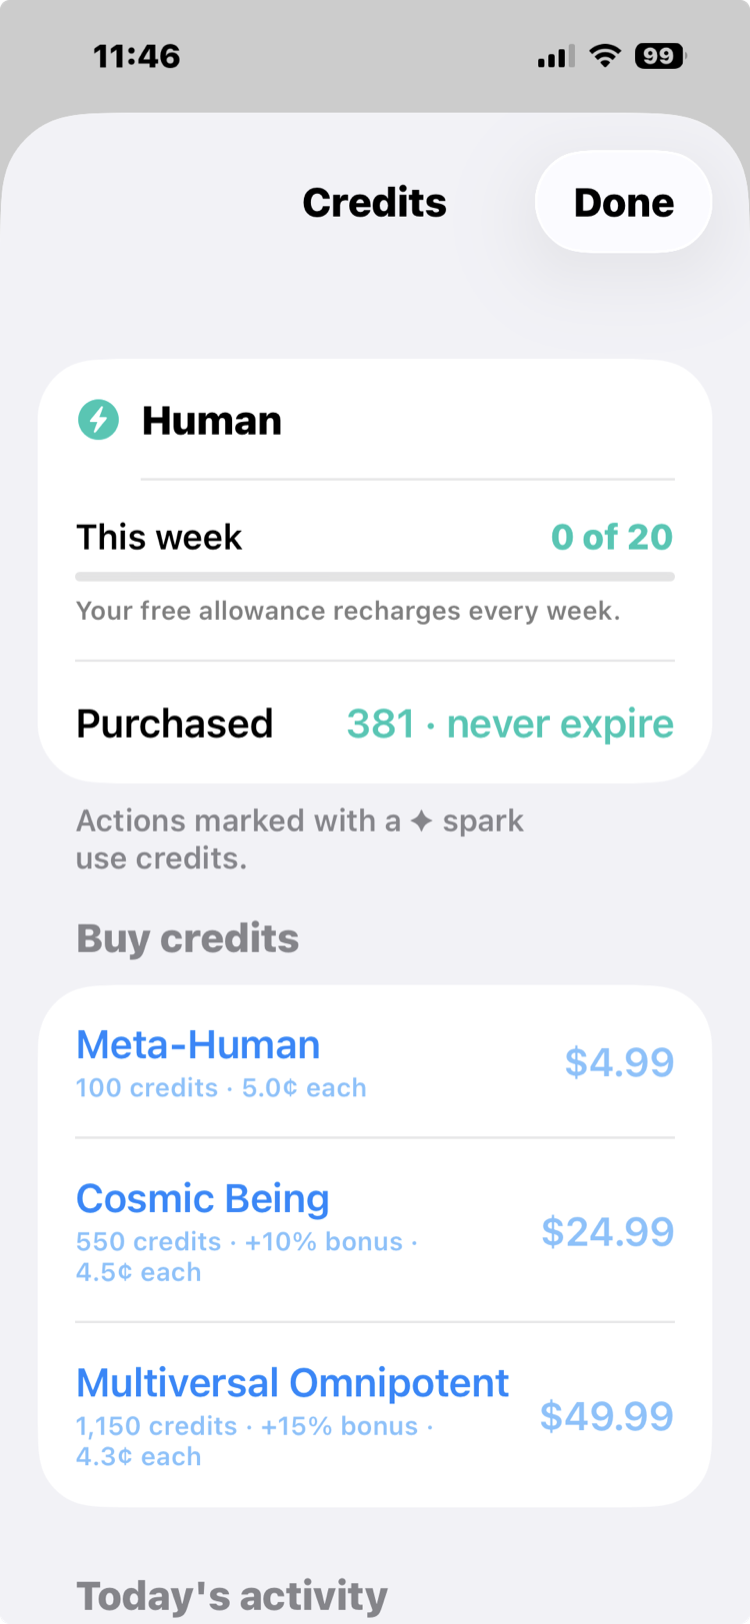
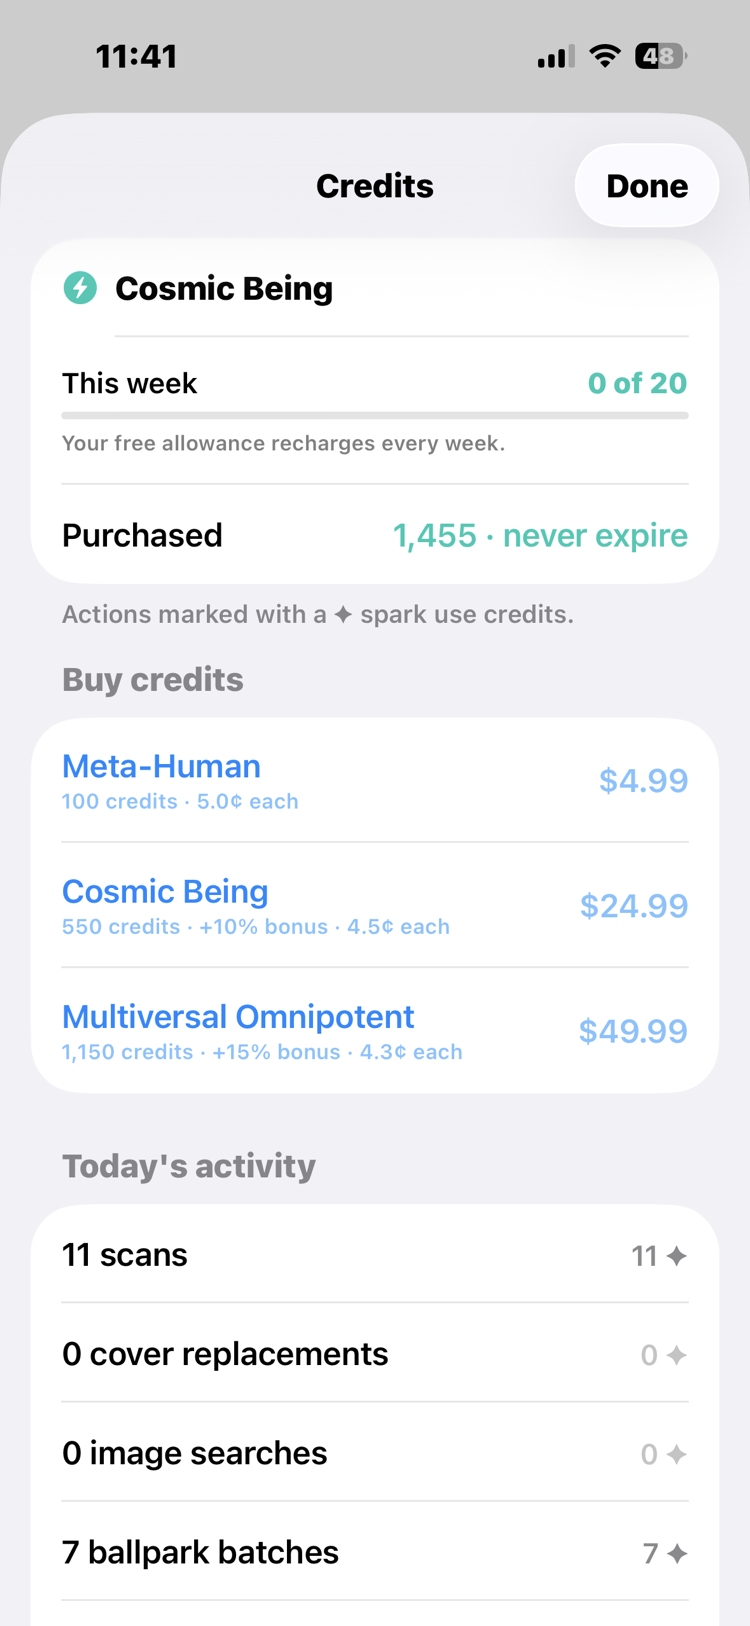
The Credits screen shows a day's work, and the rank it earned

diff --git a/faq.html b/faq.html
@@ -264,8 +264,8 @@
     whole-device zip is.</p>
     <h2>What do credits cost?</h2>
     <figure class="phone">
-      <img src="images/credits-screen.png" width="750" height="1624" loading="lazy"
-           alt="The Credits screen: a weekly free allowance shown as 0 of 20 that recharges every week, 381 purchased credits that never expire, and three credit packs from $4.99 to $49.99 with per-credit prices and bulk bonuses." />
+      <img src="images/credits-screen.png" width="750" height="1626" loading="lazy"
+           alt="The Credits screen: the Cosmic Being rank, a weekly free allowance shown as 0 of 20 that recharges every week, 1,455 purchased credits that never expire, three credit packs from $4.99 to $49.99 with per-credit prices and bulk bonuses, and today's activity of 11 scans and 7 ballpark batches." />
       <figcaption>One battery tap: your allowance, your purchased credits, the packs,
         and where every credit went.</figcaption>
     </figure>

diff --git a/howto/credits.html b/howto/credits.html
@@ -220,8 +220,8 @@
     </ul>
 
     <figure class="phone">
-      <img src="../images/credits-screen.png" width="750" height="1624" loading="lazy"
-           alt="The Credits screen: a weekly free allowance shown as 0 of 20 that recharges every week, 381 purchased credits that never expire, and three credit packs from $4.99 to $49.99 with per-credit prices and bulk bonuses." />
+      <img src="../images/credits-screen.png" width="750" height="1626" loading="lazy"
+           alt="The Credits screen: the Cosmic Being rank, a weekly free allowance shown as 0 of 20 that recharges every week, 1,455 purchased credits that never expire, three credit packs from $4.99 to $49.99 with per-credit prices and bulk bonuses, and today's activity of 11 scans and 7 ballpark batches." />
       <figcaption>One battery tap: your allowance, your purchased credits, the packs,
         and where every credit went.</figcaption>
     </figure>
